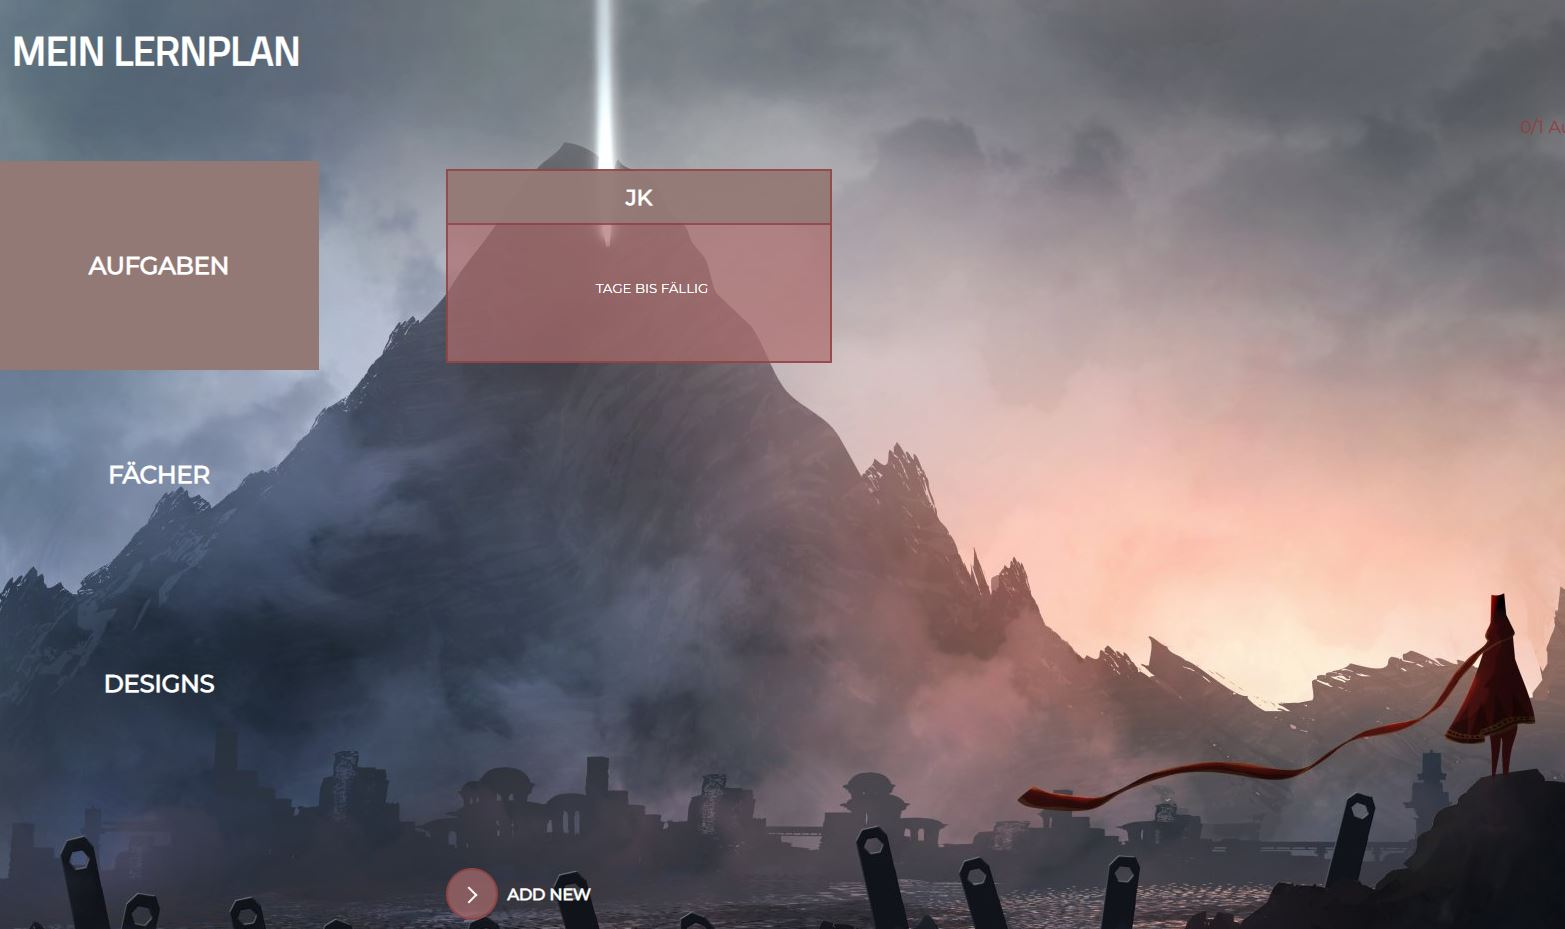
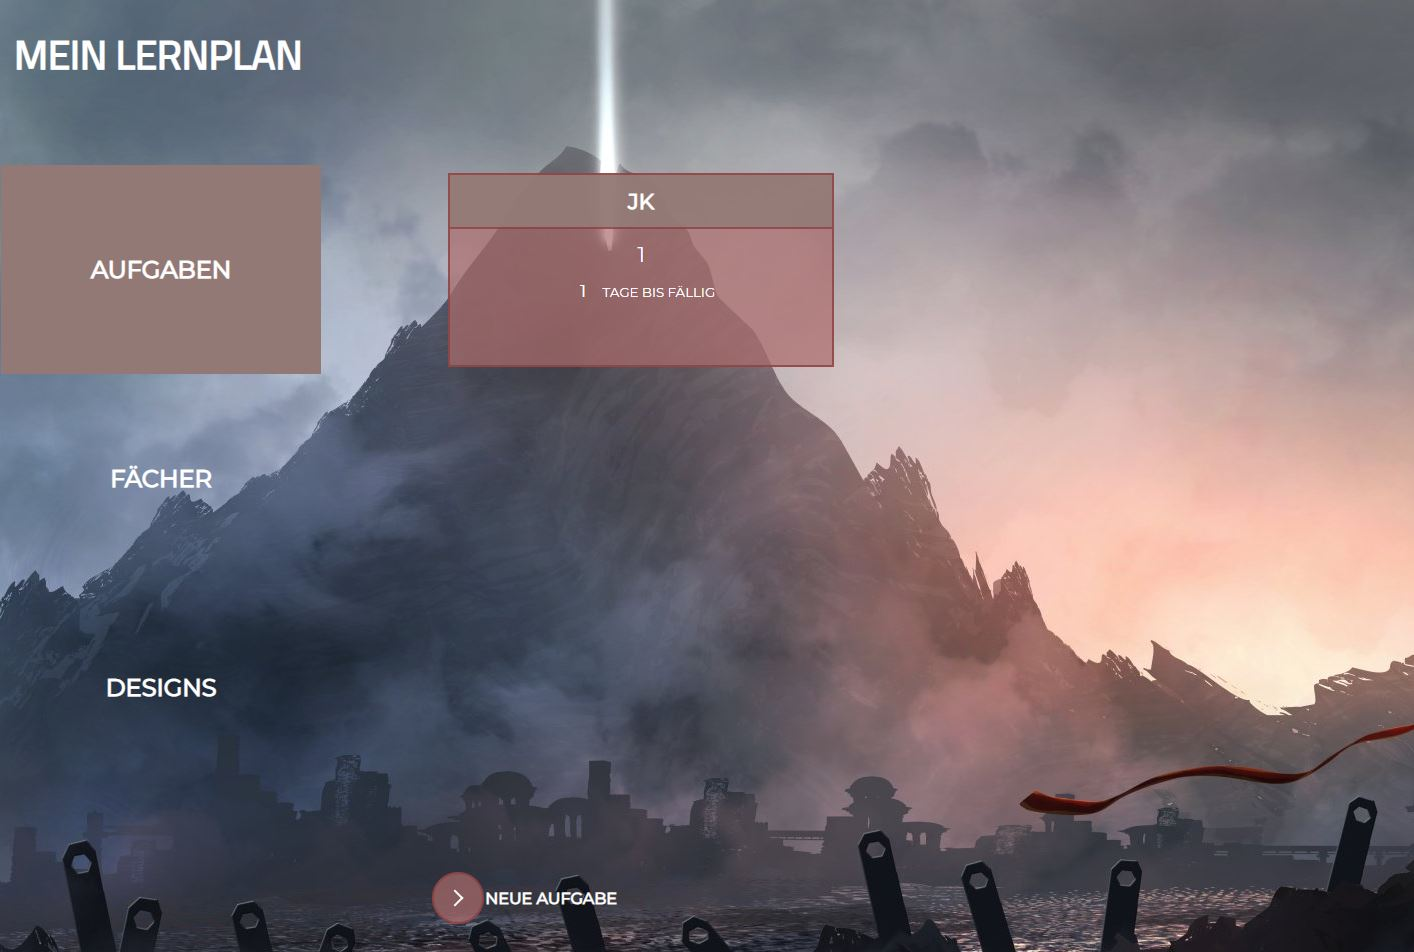
--FINALER PUSH-- Letze Änderungen

diff --git a/src/designs/designs.js b/src/designs/designs.js
@@ -40,7 +40,7 @@ async function rot() {
   document.body.style.setProperty("--schrift-color", " rgba(255, 255, 255");
     }
 async function gelb() {
-  document.body.style.backgroundImage = "url(https://images.alphacoders.com/294/thumb-1920-294151.gif)";
+  document.body.style.backgroundImage = "url(https://c.wallhere.com/photos/5e/7c/The_Journey_video_games-1152583.jpg!d)";
   document.body.style.setProperty("--dark-green-color", " rgb(52, 60, 69, 0.8");
   document.body.style.setProperty("--dark-green-transparent-color", " rgba(119, 127, 146, 0.7");
   document.body.style.setProperty("--dark-green-transparent-color-hover", " rgb(119, 127, 146");
@@ -51,11 +51,11 @@ async function gelb() {
   document.body.style.setProperty("--nav-selected-color", " rgba(117, 121, 147");
   document.body.style.setProperty("--fächer-green-color", " rgb(93, 96, 119, 0.7");
   document.body.style.setProperty("--fächer-dark-green-color", " rgba(68, 76, 94");
-  document.body.style.setProperty("--schrift-color", " rgba(255, 255, 255");
+  document.body.style.setProperty("--schrift-color", " rgba(0, 0, 0");
     }
 
 async function braun() {
-  document.body.style.backgroundImage = "url(https://i.pinimg.com/originals/35/0b/f3/350bf3ecb77455ac53a9651f2425bc09.jpg)";
+  document.body.style.backgroundImage = "url(https://gamespot1.cbsistatic.com/uploads/screen_kubrick/416/4161502/2309269-tribute_to_journey_by_matou31-d5um8hb.jpg)";
   document.body.style.setProperty("--dark-green-color", " rgb(55, 74, 69, 0.8");
   document.body.style.setProperty("--dark-green-transparent-color", " rgba(121, 148, 141, 0.7");
   document.body.style.setProperty("--dark-green-transparent-color-hover", " rgb(121, 148, 141");

diff --git a/src/index.html b/src/index.html
@@ -140,14 +140,9 @@
         <h3 id="überschriftDesign">Wählen sie ihr gewünschtes Design:</h3>
         <div id="inputsDesign"></div>
         <div id="buttonsDesign">
-          <button id="dunkel" type="button" class="rot" class="button"></button>
-          <button id="hell" type="button" class="gelb" class="button"></button>
-          <button
-            id="normal"
-            type="button"
-            class="braun"
-            class="button"
-          ></button>
+          <button id="dunkel" type="button" class="rot" class="button"/>
+          <button id="hell" type="button" class="gelb" class="button"/>
+          <button id="normal" type="button" class="braun" class="button"/>
         </div>
       </main>
     </section>

diff --git a/src/index.css b/src/index.css
@@ -5,7 +5,7 @@ html {
 body {
   font-family: "Montserrat";
   font-size: 12pt;
-  background-image: url("./images/journeyNav.png");
+  background-image: url(https://gamespot1.cbsistatic.com/uploads/screen_kubrick/416/4161502/2309269-tribute_to_journey_by_matou31-d5um8hb.jpg);
   background-repeat: no-repeat;
   background-size: cover;
 }

diff --git a/README.md b/README.md
@@ -2,14 +2,18 @@
 
 Einen Lernplan als Browser-App.
 
+Die hier erstellte App bietet die Möglichkeit einen übersichtlichen Lernplan zu erstellen. Es können Fächer (Lernfächer) und Aufgaben übersichtlich angelegt und verwaltet werden.
+
+Zur Verwendung aller Funktionen ist eine Internetverbindung notwendig.
+Es wird empfehlen "Chrome" als Browser zu verwenden, da ein webkit eingebaut wurde, welches nur mit Chrome funktioniert.
+
+Starten Sie die App über die Console mit dem Command: npm start
+
 Die Browser-App besitzt drei unterschiedliche Themen-Seiten.
-    - Aufgaben-Seite: Auf dieser Seite werden alle noch zu bearbeiteten Aufgaben dargestellt. Des Weiteren kann hier über die Seite eine Aufgabe aktualisiert, bearbeitet und gelöscht werden.
-    - Wenn eine neue Aufgabe erstellt werden möchte, gelangt man über den Button "ADD NEW" auf eine neue Seite.
+    - Aufgaben-Seite: Auf dieser Seite werden alle noch zu bearbeiteten Aufgaben dargestellt. Des Weiteren kann über diese Seite eine Aufgabe aktualisiert(direkt bearbeiten und speichern), als erledigt gekennzeichnet(durchstreichen) und gelöscht werden.
+    - Wenn eine neue Aufgabe erstellt werden möchte, gelangt man über den Button "NEUE AUFGABE" auf eine neue Seite.
 
-    - Fächer-Seite: Auf dieser Seite werden alle Fächer dargestellt, bei denen man eine Klausur, bzw. eine Abgabe hat. Des Weiteren kann hier über die Seite ein Fach aktualisiert, bearbeitet und gelöscht werden.
-    - Über eine weitere Seite können neue Fächer hinzugefügt, bearbeitet und entfernt werden.
+    - Fächer-Seite: Auf dieser Seite werden alle Fächer dargestellt, bei denen man eine Klausur, bzw. eine Abgabe hat. Des Weiteren kann über diese Seite ein Fach aktualisiert(direkt bearbeiten und speichern) und gelöscht werden.
+    - Über eine weitere Seite, welche über den Button "NEUES FACH" erreichbar ist, können neue Fächer hinzugefügt und gespeichert werden.
 
-    - Design-Seite: Auf dieser Seite kann das Design der Seite geändert werden. Hier kann man das Hintergrundbild und die Farben ändern.
-
-
-- TODO: Der Code muss über ein README-File so dokumentiert sein, dass wir ihn bei der Bewer- tung auf unseren eigenen     Rechnern laufen lassen können.
+    - Design-Seite: Auf dieser Seite kann das Design der Seiten geändert werden. Hier kann sich zwischen drei voreingestellten Designs entschieden werden.
